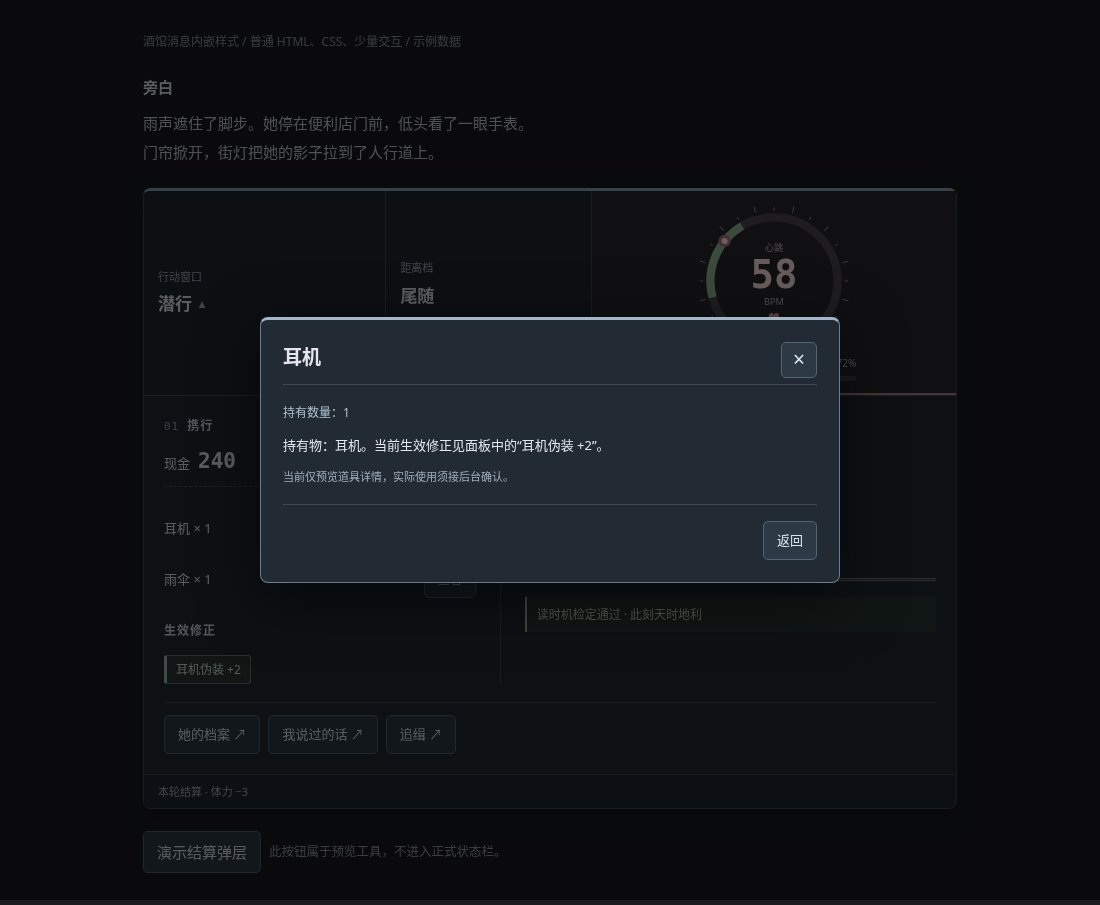
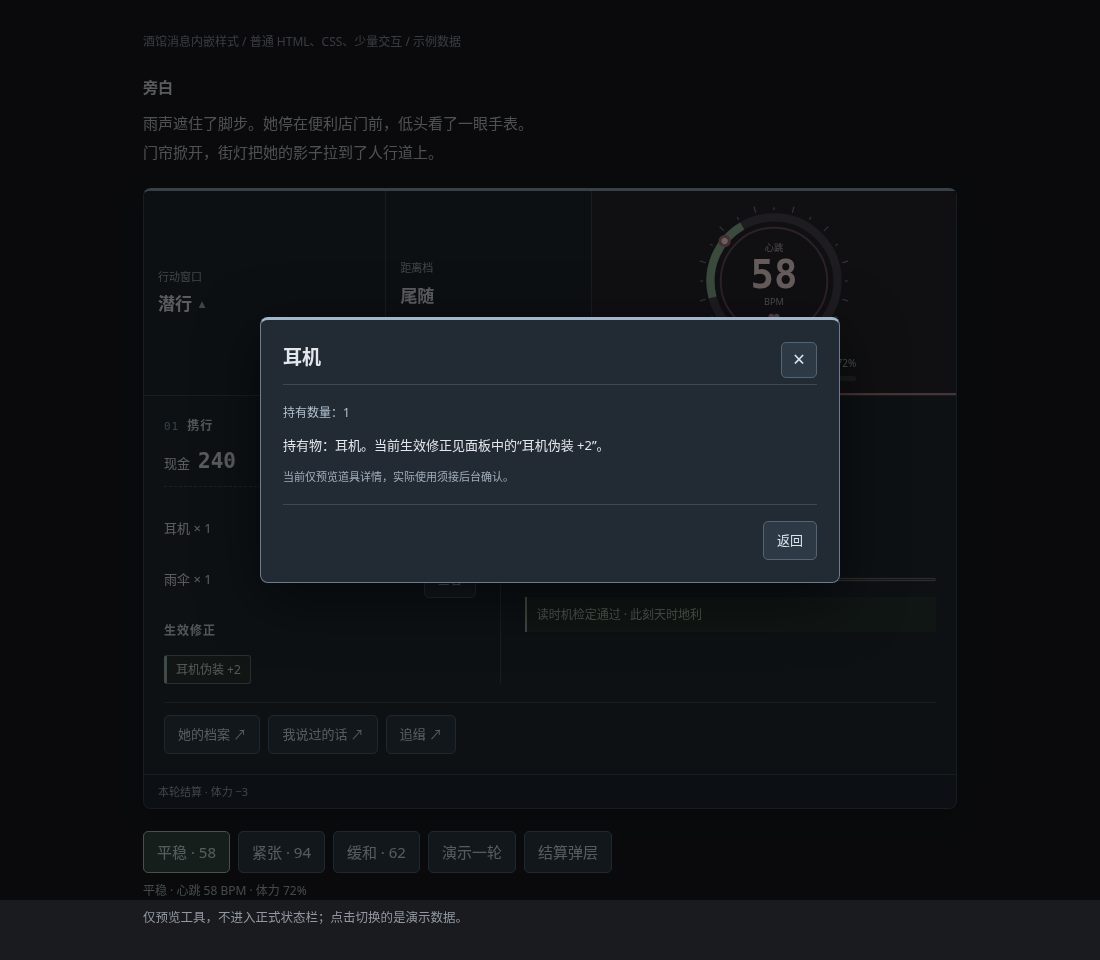
design: animate heartbeat dial stamina and drawer with controlled demo

diff --git a/AI交接/设计预览/酒馆状态栏-可实现简版/预览.html b/AI交接/设计预览/酒馆状态栏-可实现简版/预览.html
@@ -13,6 +13,8 @@ main { max-width: 850px; padding: 32px 18px; margin: auto; }
 .story { margin: 10px 0 22px; color: #c5c8ce; line-height: 1.9; }
 .preview-tools { display: flex; flex-wrap: wrap; gap: 8px; margin-top: 22px; align-items: center; }
 .preview-tools small { color: #9298a1; }
+.preview-tools button[aria-pressed="true"] { border-color: #b3c9b9; background: #354d43; }
+.preview-status { flex-basis: 100%; margin: 0; color: #a9bcb0; font-size: 12px; }
 .trpg { --border: #3d4955; --muted: #a0adba; --paper: #222b34; --beat: 1.03448s;
   color: #e4e6eb; background: var(--paper); border: 1px solid var(--border); border-top: 3px solid #8ca4b5; border-radius: 8px; font-size: 13px; box-shadow: 0 8px 24px #0003; }
 .trpg button, .preview-tools button { font: inherit; color: #d9e4ed; background: #2d3a46; border: 1px solid #526577; border-radius: 5px; padding: 8px 13px; cursor: pointer; min-height: 36px; }
@@ -39,6 +41,8 @@ main { max-width: 850px; padding: 32px 18px; margin: auto; }
 .trpg .dial-sweet { stroke: #92bb9a; stroke-width: 8; fill: none; }
 .trpg .dial-tick { stroke: #8a8c96; stroke-width: 1; }
 .trpg .dial-marker { fill: #fff3f3; stroke: #b2747e; stroke-width: 3; }
+.trpg .dial-marker-orbit { transform-origin: 80px 80px; transition: transform 700ms cubic-bezier(.2,.75,.25,1); }
+.trpg .dial-beat-halo { fill: none; stroke: #df9ba8; stroke-width: 1; animation: ring-beat var(--beat) ease-out infinite; }
 .trpg .dial-number { fill: #ffe6e6; font: 750 38px ui-monospace, Consolas, monospace; font-variant-numeric: tabular-nums; }
 .trpg .dial-label { fill: #c4b6be; font: 9px system-ui, sans-serif; }
 .trpg .dial-scale { fill: #b7b5be; font: 8px ui-monospace, Consolas, monospace; }
@@ -46,10 +50,8 @@ main { max-width: 850px; padding: 32px 18px; margin: auto; }
 .trpg .dial-heart { fill: #eaa4ae; font-size: 12px; animation: beat var(--beat) ease-in-out infinite; transform-box: fill-box; transform-origin: center; }
 .trpg .stamina { width: min(100%, 164px); margin-top: -2px; }
 .trpg .stamina-label { display: flex; justify-content: space-between; font-size: 10px; color: #acc5b5; }
-.trpg .stamina progress { height: 5px; margin: 5px 0 0; border: 0; border-radius: 3px; background: #404b45; accent-color: #96c7a6; appearance: none; }
-.trpg .stamina progress::-webkit-progress-bar { background: #404b45; border-radius: 3px; }
-.trpg .stamina progress::-webkit-progress-value { background: #96c7a6; border-radius: 3px; }
-.trpg .stamina progress::-moz-progress-bar { background: #96c7a6; border-radius: 3px; }
+.trpg .stamina-meter { display: block; height: 5px; margin-top: 5px; border-radius: 3px; background: #404b45; overflow: hidden; }
+.trpg .stamina-fill { display: block; width: 72%; height: 100%; border-radius: inherit; background: #96c7a6; transition: width 700ms cubic-bezier(.2,.75,.25,1); }
 .trpg progress { display: block; width: 100%; height: 7px; margin-top: 10px; accent-color: #a4b9c9; }
 .trpg .drawer { border-top: 1px solid var(--border); padding: 20px; }
 .trpg .columns { display: grid; grid-template-columns: 1fr 1.4fr; gap: 24px; }
@@ -71,6 +73,7 @@ main { max-width: 850px; padding: 32px 18px; margin: auto; }
 .trpg .ledger { border-top: 1px solid var(--border); padding: 8px 14px; color: var(--muted); background: #1f2730; border-radius: 0 0 7px 7px; font-size: 11px; }
 .trpg dialog { background: var(--paper); color: #e4e6eb; border: 1px solid #697e90; border-top: 3px solid #a2b8ca; padding: 22px; border-radius: 8px; width: min(580px, calc(100% - 28px)); max-height: 85dvh; overflow: auto; box-shadow: 0 16px 60px #0008; }
 .trpg dialog::backdrop { background: #0009; }
+.trpg dialog[open] { animation: dialog-in 160ms ease-out; }
 .trpg dialog h2 { font-size: 19px; margin-top: 0; }
 .trpg .dialog-top { display: flex; align-items: flex-start; justify-content: space-between; gap: 14px; border-bottom: 1px solid var(--border); margin-bottom: 18px; }
 .trpg .dialog-top h2 { margin-bottom: 12px; }
@@ -80,7 +83,13 @@ main { max-width: 850px; padding: 32px 18px; margin: auto; }
 .trpg .dice { font: 700 30px/1.6 ui-monospace, Consolas, monospace; margin: 15px 0; }
 .trpg .success { color: #b3cdb8; }
 @keyframes beat { 0%, 35%, 100% { transform: scale(1); } 12% { transform: scale(1.18); } }
-@media (prefers-reduced-motion: reduce) { .trpg .dial-heart { animation: none; } }
+@keyframes ring-beat { 0%, 40%, 100% { stroke-opacity: .08; stroke-width: 1; } 12% { stroke-opacity: .65; stroke-width: 2.5; } }
+@keyframes dialog-in { from { opacity: 0; transform: translateY(7px); } to { opacity: 1; transform: translateY(0); } }
+.trpg.motion-paused .dial-heart, .trpg.motion-paused .dial-beat-halo { animation-play-state: paused; }
+@media (prefers-reduced-motion: reduce) {
+  .trpg .dial-heart, .trpg .dial-beat-halo, .trpg dialog[open] { animation: none; }
+  .trpg .dial-marker-orbit, .trpg .stamina-fill { transition: none; }
+}
 @media (max-width: 520px) {
   main { padding: 18px 10px; }
   .trpg .bar { grid-template-columns: .95fr .75fr 1.5fr; }
@@ -107,7 +116,8 @@ main { max-width: 850px; padding: 32px 18px; margin: auto; }
           <div class="stat instrument">
             <svg class="heart-dial" viewBox="0 0 160 154" role="img" aria-label="心跳58 BPM，量程30至120，绿色甜区40至65">
               <path class="dial-track"></path><path class="dial-sweet"></path><g class="dial-ticks"></g>
-              <circle class="dial-marker" r="4.5"></circle>
+              <circle class="dial-beat-halo" cx="80" cy="80" r="52" aria-hidden="true"></circle>
+              <g class="dial-marker-orbit" style="transform: rotate(219deg)"><circle class="dial-marker" cx="142" cy="80" r="4.5"></circle></g>
               <text x="80" y="51" text-anchor="middle" class="dial-label">心跳</text>
               <text x="80" y="87" text-anchor="middle" class="dial-number">58</text>
               <text x="80" y="103" text-anchor="middle" class="dial-label">BPM</text>
@@ -116,7 +126,7 @@ main { max-width: 850px; padding: 32px 18px; margin: auto; }
               <text x="131" y="139" text-anchor="middle" class="dial-scale">120</text>
               <text x="80" y="143" text-anchor="middle" class="dial-note">甜区 40–65</text>
             </svg>
-            <div class="stamina"><div class="stamina-label"><span>体力</span><span class="stamina-value">72%</span></div><progress max="100" value="72" aria-label="体力72%"></progress></div>
+            <div class="stamina"><div class="stamina-label"><span>体力</span><span class="stamina-value">72%</span></div><div class="stamina-meter" role="progressbar" aria-label="体力" aria-valuemin="0" aria-valuemax="100" aria-valuenow="72"><span class="stamina-fill"></span></div></div>
           </div>
         </div>
       </summary>
@@ -145,14 +155,27 @@ main { max-width: 850px; padding: 32px 18px; margin: auto; }
     <dialog id="wanted" aria-labelledby="wanted-title"><div class="dialog-top"><h2 id="wanted-title">追缉</h2><button type="button" class="close-icon" data-close aria-label="关闭追缉">×</button></div><p>当前等级：无。</p><p>已知效果：暂无。</p><div class="dialog-actions"><button type="button" data-close>返回</button></div></dialog>
     <dialog id="settlement" aria-labelledby="settlement-title"><div class="dialog-top"><h2 id="settlement-title">动作结算 · 样例</h2><button type="button" class="close-icon" data-close aria-label="关闭结算示例">×</button></div><p>队列：读时机 → 靠近</p><p>修正：耳机伪装 +2</p><div class="dice">14 + 2 = 16</div><strong class="success">成功</strong><p class="label">这里是固定排版示例，未掷骰、未检定，也未写入存档。</p><div class="dialog-actions"><button type="button" data-close>继续</button></div></dialog>
   </section>
-  <div class="preview-tools"><button type="button" id="preview-settlement">演示结算弹层</button><small>此按钮属于预览工具，不进入正式状态栏。</small></div>
+  <div class="preview-tools" aria-label="动态样式演示工具">
+    <button type="button" data-preset="steady" aria-pressed="true">平稳 · 58</button>
+    <button type="button" data-preset="tense" aria-pressed="false">紧张 · 94</button>
+    <button type="button" data-preset="recover" aria-pressed="false">缓和 · 62</button>
+    <button type="button" id="preview-play" aria-pressed="false">演示一轮</button>
+    <button type="button" id="preview-settlement">结算弹层</button>
+    <p class="preview-status" role="status">平稳 · 心跳 58 BPM · 体力 72%</p>
+    <small>仅预览工具，不进入正式状态栏；点击切换的是演示数据。</small>
+  </div>
 </main>
 <script>
 // 仅作局部交互预览。正式宿主适配、数据广播、音频、结算和存档不在本稿中。
 (() => {
   const root = document.querySelector('.trpg');
   // 预览快照：圆心读数、圆周位置、心形节拍及体力条从同一份数据绘制。
-  const snapshot = Object.freeze({ bpm: 58, stamina: 72 });
+  const presets = Object.freeze({
+    steady: Object.freeze({ label: '平稳', bpm: 58, stamina: 72 }),
+    tense: Object.freeze({ label: '紧张', bpm: 94, stamina: 43 }),
+    recover: Object.freeze({ label: '缓和', bpm: 62, stamina: 64 })
+  });
+  const reducedMotion = matchMedia('(prefers-reduced-motion: reduce)');
   const dial = root.querySelector('.heart-dial');
   const point = (value, radius = 62) => {
     const angle = (135 + (value - 30) / 90 * 270) * Math.PI / 180;
@@ -171,15 +194,88 @@ main { max-width: 850px; padding: 32px 18px; margin: auto; }
     tick.setAttribute('class', 'dial-tick');
     dial.querySelector('.dial-ticks').append(tick);
   }
-  const marker = point(Math.min(120, Math.max(30, snapshot.bpm)));
-  dial.querySelector('.dial-marker').setAttribute('cx', marker.x);
-  dial.querySelector('.dial-marker').setAttribute('cy', marker.y);
-  dial.querySelector('.dial-number').textContent = snapshot.bpm;
-  dial.setAttribute('aria-label', `心跳${snapshot.bpm} BPM，量程30至120，绿色甜区40至65`);
-  root.style.setProperty('--beat', `${60 / snapshot.bpm}s`);
-  root.querySelector('.stamina-value').textContent = `${snapshot.stamina}%`;
-  root.querySelector('.stamina progress').value = snapshot.stamina;
-  root.querySelector('.stamina progress').setAttribute('aria-label', `体力${snapshot.stamina}%`);
+  function renderVitals(snapshot) {
+    const value = Math.min(120, Math.max(30, snapshot.bpm));
+    dial.querySelector('.dial-marker-orbit').style.transform = `rotate(${135 + (value - 30) / 90 * 270}deg)`;
+    dial.querySelector('.dial-number').textContent = snapshot.bpm;
+    dial.setAttribute('aria-label', `心跳${snapshot.bpm} BPM，量程30至120，绿色甜区40至65`);
+    root.style.setProperty('--beat', `${60 / snapshot.bpm}s`);
+    root.querySelector('.stamina-value').textContent = `${snapshot.stamina}%`;
+    root.querySelector('.stamina-meter').setAttribute('aria-valuenow', snapshot.stamina);
+    root.querySelector('.stamina-fill').style.width = `${snapshot.stamina}%`;
+    document.querySelector('.preview-status').textContent = `${snapshot.label} · 心跳 ${snapshot.bpm} BPM · 体力 ${snapshot.stamina}%`;
+  }
+  renderVitals(presets.steady);
+
+  // details保持原生键盘语义；高度动画结束后再真正关闭，允许快速反向操作。
+  const details = root.querySelector('details');
+  const summary = details.querySelector('summary');
+  let drawerAnimation = null, drawerTarget = details.open;
+  summary.addEventListener('click', event => {
+    event.preventDefault();
+    drawerTarget = !drawerTarget;
+    const from = details.getBoundingClientRect().height;
+    drawerAnimation?.cancel();
+    drawerAnimation = null;
+    if (reducedMotion.matches || typeof details.animate !== 'function') {
+      details.open = drawerTarget;
+      details.style.overflow = '';
+      return;
+    }
+    details.open = true;
+    const to = drawerTarget ? details.scrollHeight : summary.getBoundingClientRect().height;
+    details.style.overflow = 'hidden';
+    const animation = details.animate({ height: [`${from}px`, `${to}px`] }, { duration: 240, easing: 'ease-out' });
+    drawerAnimation = animation;
+    animation.finished.then(() => {
+      if (drawerAnimation !== animation) return;
+      details.open = drawerTarget;
+      details.style.overflow = '';
+      drawerAnimation = null;
+    }).catch(() => {});
+  });
+
+  let demoTimer = null, demoRunning = false;
+  const playButton = document.querySelector('#preview-play');
+  function stopDemo() {
+    clearTimeout(demoTimer);
+    demoTimer = null;
+    demoRunning = false;
+    playButton.textContent = '演示一轮';
+    playButton.setAttribute('aria-pressed', 'false');
+  }
+  function selectPreset(key) {
+    const snapshot = presets[key];
+    if (!snapshot) return;
+    renderVitals(snapshot);
+    document.querySelectorAll('[data-preset]').forEach(button => button.setAttribute('aria-pressed', String(button.dataset.preset === key)));
+  }
+  document.querySelectorAll('[data-preset]').forEach(button => button.addEventListener('click', event => {
+    event.preventDefault();
+    stopDemo();
+    selectPreset(button.dataset.preset);
+  }));
+  playButton.addEventListener('click', event => {
+    event.preventDefault();
+    if (demoRunning) return stopDemo();
+    demoRunning = true;
+    playButton.textContent = '停止演示';
+    playButton.setAttribute('aria-pressed', 'true');
+    const sequence = ['tense', 'recover', 'steady'];
+    let index = 0;
+    const step = () => {
+      if (!demoRunning) return;
+      selectPreset(sequence[index++]);
+      if (index < sequence.length) demoTimer = setTimeout(step, 2000);
+      else stopDemo();
+    };
+    step();
+  });
+  document.addEventListener('visibilitychange', () => {
+    root.classList.toggle('motion-paused', document.hidden);
+    if (document.hidden) stopDemo();
+  });
+  window.addEventListener('pagehide', stopDemo);
   const openers = new WeakMap();
   const items = {
     headphones: { name: '耳机', description: '持有物：耳机。当前生效修正见面板中的“耳机伪装 +2”。' },

diff --git a/AI交接/设计预览/酒馆状态栏-可实现简版/说明.md b/AI交接/设计预览/酒馆状态栏-可实现简版/说明.md
@@ -6,11 +6,15 @@
 
 最新调整：“心跳、体力可以做成圆形仪表盘的形式吗？上面心跳占大部分，下面小绿条显示体力”。将心跳与体力合并为同一仪表区：上方270度圆表，中央大号心跳读数；圆周绿色弧段表示40–65甜区，白色圆点表示当前位置；下方一条细绿条表示体力。常驻保留原来的四项信息，排版调整为日段/模式、距离档、心跳＋体力三个区域。圆表用内联SVG路径与刻度线，不使用贴图或仪表盘库。读数、位置、节拍和体力条来自同一份固定预览快照。正式心跳的合法范围须接入时按业务协议确定，示例30–120仅是展示量程。
 
+动态版接续“能做的更动态吗？”：心形与内圆光环按同一BPM节拍脉动；心跳位置沿圆周平滑移动，体力绿条平滑伸缩；抽屉有240ms高度过渡，弹层轻滑入。数字/辅助读数立即显示最新快照，圆点和条的700ms过渡仅是显示效果，不作为游戏中的中间数值。甜区始终固定40–65，不随演示变化。
+
+预览工具可选“平稳58/体力72”“紧张94/体力43”“缓和62/体力64”。“演示一轮”按紧张→缓和→平稳运行一次，约4秒自动结束，可随时停止或手选状态；不会默认自动播放、随机造数或写入正式存档。页面隐藏时停止演示并暂停持续节拍。系统选择减少动态效果时停用节拍、位移过渡、弹层动画和抽屉高度动画，按钮仍有效。`动态演示.gif` 如存在，来自真实浏览器渲染，不是生成式效果图。
+
 返回修复：移除所有 `form method="dialog"`，每个按钮显式 `type="button"`，通过 `dialog.close()` 关闭并恢复入口焦点。增加右上角关闭、遮罩关闭及原生 Esc。下级已在旧稿复现外层表单嵌套与表单属性/标签移除导致的关闭失效；这是宿主形态模拟，不代表已定位用户真实酒馆环境的唯一原因。新版验证见 `验证记录.md`。
 
 直接打开 `预览.html`。`浏览器实拍.png` 是该文件在浏览器中的实际截图，非生成式效果图。
 
-设计保留常驻条、心跳圆形仪表与细绿体力条、普通列表和原生折叠。无图片、贴图、外部字体、图标库、框架或网络资源。心跳58，圆点位置和40–65甜区使用同一量程30–120；心形动画周期为60/58秒，仅演示。减少动态效果偏好下停止动画。窄屏保持三个区域、四项信息，抽屉内容改为一列。
+设计保留常驻条、心跳圆形仪表与细绿体力条、普通列表和原生details语义。无图片、贴图、外部字体、图标库、框架或网络资源。初始心跳58，圆点位置和40–65甜区使用同一量程30–120；初始节拍周期60/58秒，切换后随BPM更新，仅演示。减少动态效果偏好下停止动画。窄屏保持三个区域、四项信息，抽屉内容改为一列。
 
 可点击操作：收起/展开、道具查看、三个深页示例、演示结算弹层及关闭。道具使用未接后台，按钮据此标“查看”。深页目前是普通对话框示例，不宣称已实现正式全屏页面。准备期倒计时、模式/距离换轨、实时快照广播、音频、追逐小游戏、重锤演出、真实检定与结算都待业务接入；本轮仅验证布局可实现，无后台写入、无道具消耗、无随机掷骰。
 

diff --git a/AI交接/设计预览/酒馆状态栏-可实现简版/验证记录.md b/AI交接/设计预览/酒馆状态栏-可实现简版/验证记录.md
@@ -41,3 +41,20 @@
 - 本轮HTML SHA-256：4213476b1983d884206e76f2a4acbed5538d322fb9f6e65067306691fc5ee18f，检查前后未修改。
 
 加载方式仍为本地读取HTML后page.setContent交由真实Chromium渲染。本轮不是酒馆实机、真实结算、音频或后台道具验证，未修改生产文件，未提交、未推送。
+
+## 本轮动态版有限复核
+
+身份：gpt下级（审查角色）。
+
+检查时间：2026-10-15T07:45:36.473338+00:00；真实 Chromium 151.0.7922.173，仍以 setContent 加载当前 HTML。
+
+- 已验证真实中途变化：从58/72切换94/43后，约100ms时体力条宽约57.65%，圆点矩阵处于过渡中；约800ms后条宽43%、圆点327°与最终读数一致。数字与ARIA立即更新，过渡只用于显示。
+- 心形与光环时长相同：58时均1.03448秒，94时均0.638298秒，来自60/BPM。圆点/体力过渡均700ms。
+- 快速连续折叠反向后可正常收起、再展开，overflow恢复。一次自动演示真实运行58→94→62→58，约4秒完成并自动停止；停止及手选缓和均取消后续定时切换。模拟隐藏属性及visibilitychange后演示停止，节拍进入暂停类；该项是隐藏事件处理模拟，不是操作系统切页实测。
+- 减少动态偏好下：心形/光环动画none、圆点/体力过渡0秒；状态按钮、折叠和演示启停仍可用。
+- 耳机打开/返回及解析阶段外层宿主form回归通过，动态预览控件未意外提交表单，submit=0。320/375/1100视口无文档/body横溢出，未重跑历史关闭全排列。
+- 没有JS异常或console.error。已更新两张1100×900桌面视口实拍，未生成手机截图。
+- 动态演示.gif：来自当前真实浏览器HUD上半段40张截图，经Pillow缩放与调色板压缩；640×161，以约8fps采样，合并相同帧后30帧，总时长5秒，264,919字节。展示58→94→62→58，非生成式动态图。
+- 本轮HTML SHA-256：8e207328bacbda47ca0b3da2b0e025948389b6e4bffd23b09459009da79f9e5b，检查前后未改。
+
+本轮只验证当前原型的显示与预览控制，不是酒馆实机、音频、正式变量或真实结算验证；没有修改源码或生产文件，未提交、未推送。旧故障复现边界及上轮记录保留在上文。
